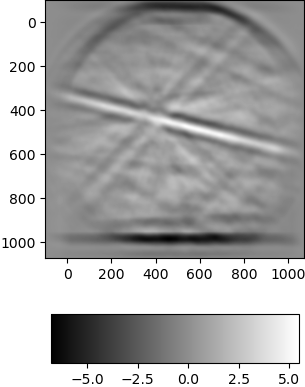
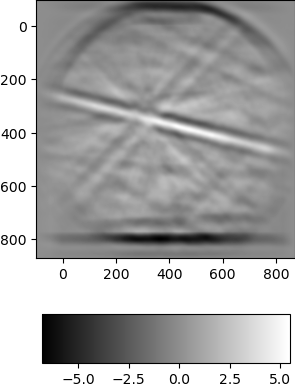
algorithm description mid

diff --git a/thesis/chap01.tex b/thesis/chap01.tex
@@ -36,14 +36,14 @@ When the crystal structure of material is changed (e.g. under stress), the defor
 		\centering
 		\includegraphics[width=.9\linewidth]{img/DEFORMED_x3600y6235}
 		\caption{Deformed pattern}
-		\label{fig:sub2}
+		
 	\end{subfigure}
 	\centering
 	\begin{subfigure}{.4\textwidth}
 		\centering
 		\includegraphics[width=.9\linewidth]{img/roi_shifts}
 		\caption{Deformation visualization}
-		\label{fig:sub2}
+		\label{roi-shifts:result}
 	\end{subfigure}
 
 	\caption{Deformed pattern with arrows visualizing the deformation. The arrows are upscaled for the visualization, because the pattern is deformed only by several pixels (the biggest offset is less than 10 pixels long).}
@@ -72,7 +72,7 @@ If $C = f \star g$ then $C[n]$ is a number that tells us how much are functions 
 \begin{figure}
 	\centering
 	\includegraphics[width=0.7\linewidth]{img/correlation}
-	\caption{The principle of EBSD. The image is taken from \cite{correlation_example}.}
+	\caption{The cross--correlation of two example functions. The image is taken from \cite{correlation_example}.}
 	\label{correlation-example}
 \end{figure}
 
@@ -85,17 +85,16 @@ Analogously to one--dimensional cross--correlation, $(f \star g)[i,j]$ is a numb
 
 \begin{figure}
 	\centering
-		\begin{subfigure}{.4\textwidth}
+		\begin{subfigure}{.49\textwidth}
 		\centering
 		\includegraphics[width=\linewidth]{img/shapes}
 		\caption{An image}
-		\label{roi-shifts:initial}
 	\end{subfigure}
-	\begin{subfigure}{.4\textwidth}
+	\begin{subfigure}{.49\textwidth}
 	\centering
-	\includegraphics[width=0.4\linewidth]{img/search_shape}
+	\includegraphics[width=0.4\linewidth]{img/shapes_pattern}
 	\caption{Search pattern}
-	\label{fig:sub2}
+	%\label{fig:sub2}
 	\end{subfigure}
 	\begin{subfigure}{.5\textwidth}
 		\centering
@@ -104,7 +103,7 @@ Analogously to one--dimensional cross--correlation, $(f \star g)[i,j]$ is a numb
 		\label{2d-correlation-example-result}
 	\end{subfigure}
 	
-	\caption{The principle of EBSD. The image is taken from \cite{correlation_example}.}
+	\caption{An example of cross--correlation used to find an object in an image. The maxima of the cross--correlation result correspond to the location of the search pattern (b) in the image (a).}
 	\label{2d-correlation-example}
 \end{figure}
 
@@ -113,19 +112,6 @@ Theoretically, the domain of cross--correlation is whole $\mathbb{Z}^2$. However
 \subsection{Zero--normalized cross--correlation}
 
 Cross--correlation as it is defined in the previous section has a major flaw for image processing: it is heavily affected by the brightness of the images. Consider an image, that has some subregions brighter than others. Then, by definition of cross--correlation, that subregions add more to the result, regardless of the second image. \Cref{normalized-initial} shows an example of an image that is much brighter in the top part then in the bottom. \Cref{normalized-simple-cross} shows the result of cross--correlation with the search pattern in \cref{normalized-pattern}. It is clear that the highest values are located where the original image is brightest instead of locating the search pattern.
-
-That is why zero--normalized cross--correlation is used. It is based on subtracting respective means from each image. Normalized cross--correlation of two images $f$ and $g$ is defined as follows:
-
-\[
-\textsc{ZNCC}[i,j] = \sum_{x=-\infty}^{\infty}\sum_{y=-\infty}^{\infty} \frac{1}{\sigma_f \sigma_g}(f[x,y] - \mu_f)(g[x+i,y+j] - \mu_g),
-\]  
-where $\mu_f$ and $\mu_g$ are the means of the images and $\sigma_f$, $\sigma_g$ are their standard deviations. For an image f with size $W \times H$, they are defined like so:
-\begin{align*}
-\mu_f &= \frac{1}{WH} \sum_{x,y}{}f[x,y], \\
-\sigma_f &= \sqrt{\frac{1}{WH-1} \sum_{x,y}(f[x,y]-\mu_f)^2}.
-\end{align*}
-
-\Cref{normalized-cross} shows the zero--normalized cross--correlation of the figures \ref{normalized-initial} and \ref{normalized-pattern}. The area of the highest correlation is now clearly visible and corresponds to a Kukuchi line in the original image. Subtracting the mean of both images makes the algorithm less prone to brightness changes across the image.
 
 \begin{figure}
 	\centering
@@ -154,45 +140,73 @@ where $\mu_f$ and $\mu_g$ are the means of the images and $\sigma_f$, $\sigma_g$
 		\label{normalized-cross}
 	\end{subfigure}
 	
-	\caption{The principle of EBSD. The image is taken from \cite{correlation_example}.}
-	\label{2d-correlation-example}
+	\caption{A comparison between the simple and zero--normalized cross--correlation. An image of EBSP (a) is correlated with its subregion (b). (c) shows that simple cross--correlation is affected by varying brightness in different parts of images. (d) shows that normalization of the images improve the cross--correlation results.}
 \end{figure}
+
+That is why zero--normalized cross--correlation is used. It is based on subtracting respective means from each image. Normalized cross--correlation of two images $f$ and $g$ is defined as follows:
+
+\[
+\textsc{ZNCC}[i,j] = \sum_{x=-\infty}^{\infty}\sum_{y=-\infty}^{\infty} \frac{1}{\sigma_f \sigma_g}(f[x,y] - \mu_f)(g[x+i,y+j] - \mu_g),
+\]  
+where $\mu_f$ and $\mu_g$ are the means of the images and $\sigma_f$, $\sigma_g$ are their standard deviations. For an image f with size $W \times H$, they are defined like so:
+\begin{align*}
+\mu_f &= \frac{1}{WH} \sum_{x,y}{}f[x,y], \\
+\sigma_f &= \sqrt{\frac{1}{WH-1} \sum_{x,y}(f[x,y]-\mu_f)^2}.
+\end{align*}
+
+\Cref{normalized-cross} shows the zero--normalized cross--correlation of the figures \ref{normalized-initial} and \ref{normalized-pattern}. The area of the highest correlation is now clearly visible and corresponds to a Kukuchi line in the original image. Subtracting the mean of both images makes the algorithm less prone to brightness changes across the image.
+
+
 
 The intuition behind this behavior is as follows. By the definition of simple cross--correlation, pixels with low brightness multiply and result in low correlation. After subtracting the means, low values in both images become negative. However, two negative numbers multiply into a positive value, so they increase the correlation. On contrary, very bright and very dull pixels multiply into a negative number so their difference causes that they lower the overall correlation value.
 
 
 \section{Algorithm description}
 
-In the following section, we describe how is the zero--normalized cross--corre\-lation used to analyze the deformation of EBSPs. Algorithm \ref{algo-whole} describes the whole process in pseudocode. 
+In the following section, we describe how is the zero--normalized cross--corre\-lation used to analyze the deformation of EBSPs.
+
+As described in the beginning of this chapter, the algorithm we implement in this thesis takes deformed EBSPs and cross--correlates several regions of interest with a reference EBSP. A region of interest (ROI) is a rectangular part of an image defined by its size and position. The algorithm then finds the maximum of the cross--correlation, which yields the vector of deformation with pixel accuracy. Finally, it improves the accuracy by finding the maximum of a fitted quadratic function.
+
+The algorithm takes the following input:
+\begin{itemize}
+	\item s reference EBSP image with size $W \times H$
+	\item $N$ deformed EBSP images, each with size $W \times H$
+	\item $M$ positions ROIs that will be compared from each image
+	\item size $w \times h$ of each ROI
+	\item size of neighbourhood $s \times s$ of the cross correlation maximum that will be used to fit the quadratic function
+\end{itemize}
+The result of the algorithm is a list of $M$ shifts for each of the $N$ deformed EBSPs (see \cref{roi-shifts:result} for visualization of the shifts for one EBSP).
+
+Algorithm \ref{algo-whole} describes the whole process in pseudocode. It goes through all deformed EBSPs and all ROI positions specified in the input. It computes the zero--normalized cross--corre\-lation in three steps: find means of the ROIs, subtract them and compute cross--correlation. The result is an image (two--dimensional array) with size $(2w-1) \times (2h-1)$.
+
+
 
 \begin{algorithm}
 	\caption{EBSP deformation processing}
 	\label{algo-whole}
-	\KwIn{
-		one reference EBSP\;
-		N deformed EBSPs\;
-	 	position of M regions of interest (ROI) from each EBSP to be compared \;
- 		size of one ROI\;}
+	\KwIn{one reference EBSP \newline
+		N deformed EBSPs \newline
+	 	position of M regions of interest (ROI) from each EBSP \newline
+ 		size of one ROI \newline}
 	\KwOut{deformation shifts for all M ROIs from all N deformed EBSPs}
 	\vspace{5px}
 	
 	refEBSP  $\leftarrow$ load reference EBSP from disk\;
 	\ForEach{deformed EBSP}{
 		defEBSP $\leftarrow$ load EBSP from disk\;
-		\ForEach{ROI in EBSP}{
+		\ForEach{\emph{roiPos} in ROI positions}{
 			refROI, defROI $\leftarrow$ extract ROI from refEBSP and defEBSP\;
 			
 			find the mean of both ROIs and subtract it\;
-			apply (Hann) window to both ROIs
 			
-			crossResult $\leftarrow$ cross--correlate refROI with defROI\;
+			crossResult $\leftarrow$ cross--correlate(refROI,defROI)\;
 			%
 			maxX, maxY $\leftarrow$ subpixelPeak(crossResult)\;
-			output [maxX, MaxY]\;
+			output [maxX, maxY]\;
 		}
 	}
 	
-	\SetKwProg{Fn}{Function}{ is}{end}
+	\SetKwProg{Fn}{Function}{}{end}
 	\SetKwFunction{FSubpixelPeak}{subpixelPeak}    
 	\Fn{\FSubpixelPeak{crossResult}}{
 		max $\leftarrow$ argmax(crossResult)\;
@@ -201,7 +215,9 @@ In the following section, we describe how is the zero--normalized cross--corre\-
 		fit a quadratic function to neigh using the least squares method\;
 		\KwRet maximum of the quadratic function\;
 	}
-	
-	
 \end{algorithm}
+
+\section{Least squares}
+
+
 

diff --git a/thesis/preface.tex b/thesis/preface.tex
@@ -6,6 +6,6 @@ The crystalline structure deforms under stress, which results in deformation of 
 
 In 2006, Wilkinson, Meaden and Dingley described the first technique of high resolution EBSD analysis \cite{wilkinson2006high}. It is based on cross correlating several sub--regions of the deformed and reference (undeformed) images. The cross correlation is processed to obtain shifts between the regions of interest with subpixel accuracy by interpolating between the points of best correlation match. From the shifts, it is possible to determine elastic strain and lattice rotation of the crystalline material.
 
-When examining an object using EBSD, the procedure has to be repeated thousands of times. Usually, the images are taken in a raster that covers the area of interest which produces thousands of images. For each image, the analysis involves cross correlating tens to hundreds of subregions (100x100 pixels) which computationally expensive. At the same time, processing of individual subregions is independent that makes it possible to leverage data parallelism and thus is appropriate for implementation on modern GPUs.
+When examining an object using EBSD, the procedure has to be repeated thousands of times. Usually, the images are taken in a raster that covers the area of interest which produces thousands of images. For each image, the analysis involves cross correlating tens to hundreds of subregions ($100\times100$ pixels) which computationally expensive. At the same time, processing of individual subregions is independent that makes it possible to leverage data parallelism and thus is appropriate for implementation on modern GPUs.
 
 In this thesis we analyze the technique used to process data from EBSD from performance point of view, implement the most computationally expensive parts using the CUDA technology and benchmark the implementation. \todo{to be finished...}

diff --git a/thesis/img/shapes_correlation.py b/thesis/img/shapes_correlation.py
@@ -29,13 +29,16 @@ s=50
 area = [Rectangle( (j-s, i-s), 2*s, 2*s)]
 #gca().add_collection(PatchCollection(area, facecolor='none', edgecolor='r'))
 imshow(img)
+savefig("shapes.png", bbox_inches = 'tight', pad_inches = 0)
 show()
 
 print(img)
 
+fig = figure(figsize=(1,1))
 area = img[i-s:i+s, j-s:j+s]
 
 imshow(area)
+fig.savefig("shapes_pattern.png", bbox_inches = 'tight', pad_inches = 0)
 show()
 
 fig = plt.figure()
@@ -59,7 +62,7 @@ Y = np.arange(cor.shape[0]) - s
 
 # Plot the surface.
 #surf = ax.plot_surface(X, Y, cor, cmap=cm.coolwarm, linewidth=0, antialiased=False)
-imshow(cor, extent = [-2*s , cor.shape[1]+2*s, cor.shape[0]+2*s , -2*s])
+imshow(cor, extent = [-2*s, cor.shape[1]-2*s, cor.shape[0]-2*s , -2*s])
 
 # Customize the z axis.
 #ax.set_zlim(-1.01, 1.01)
@@ -68,5 +71,5 @@ imshow(cor, extent = [-2*s , cor.shape[1]+2*s, cor.shape[0]+2*s , -2*s])
 
 # Add a color bar which maps values to colors.
 #fig.colorbar(surf, shrink=0.5, aspect=5)
-
+savefig("shapes_correlated.png", bbox_inches = 'tight', pad_inches = 0)
 plt.show()

diff --git a/thesis/img/normalized_corr.py b/thesis/img/normalized_corr.py
@@ -46,7 +46,7 @@ print(area.shape)
 img = img.astype('uint64')
 area = area.astype('uint64')
 cor = correlate(img, area, mode='full')
-im = imshow(cor, extent = [-2*s , cor.shape[1]+2*s, cor.shape[0]+2*s , -2*s], cmap="gray")
+im = imshow(cor, extent = [-2*s , cor.shape[1]-2*s, cor.shape[0]-2*s, -2*s], cmap="gray")
 fig.colorbar(im, shrink=0.5, aspect=5, orientation="horizontal")
 savefig("normalized_simple_corr.png", bbox_inches = 'tight', pad_inches = 0)
 plt.show()
@@ -57,9 +57,12 @@ area = (area - mean(area))/(img.std()*area.shape[0]*area.shape[1])
 cor = correlate(img, area, mode='full')
 print(type(img))
 print(type(cor))
+print(img.shape)
+print(cor.shape)
+print(area.shape)
 
 fig = plt.figure()
-im = imshow(cor, extent = [-2*s , cor.shape[1]+2*s, cor.shape[0]+2*s , -2*s], cmap="gray")
+im = imshow(cor, extent = [-2*s , cor.shape[1]-2*s, cor.shape[0]-2*s, -2*s], cmap="gray")
 
 # Customize the z axis.
 #ax.set_zlim(-1.01, 1.01)

diff --git a/thesis/chap02.tex b/thesis/chap02.tex
@@ -1,5 +1,1 @@
-\chapter{Title of the second chapter}
-
-\section{Title of the first subchapter of the second chapter}
-
-\section{Title of the second subchapter of the second chapter}
+\chapter{CUDA}

diff --git a/thesis/thesis.tex b/thesis/thesis.tex
@@ -109,7 +109,8 @@ Abstract.
 \include{preface}
 \include{chap01}
 \include{chap02}
-
+\include{chap03}
+\include{chap04}
 \include{epilog}
 
 %%% Bibliography

diff --git a/thesis/chap03.tex b/thesis/chap03.tex
@@ -1,0 +1,1 @@
+\chapter{Implementation}

diff --git a/thesis/chap04.tex b/thesis/chap04.tex
@@ -1,0 +1,1 @@
+\chapter{Benchmarks}
